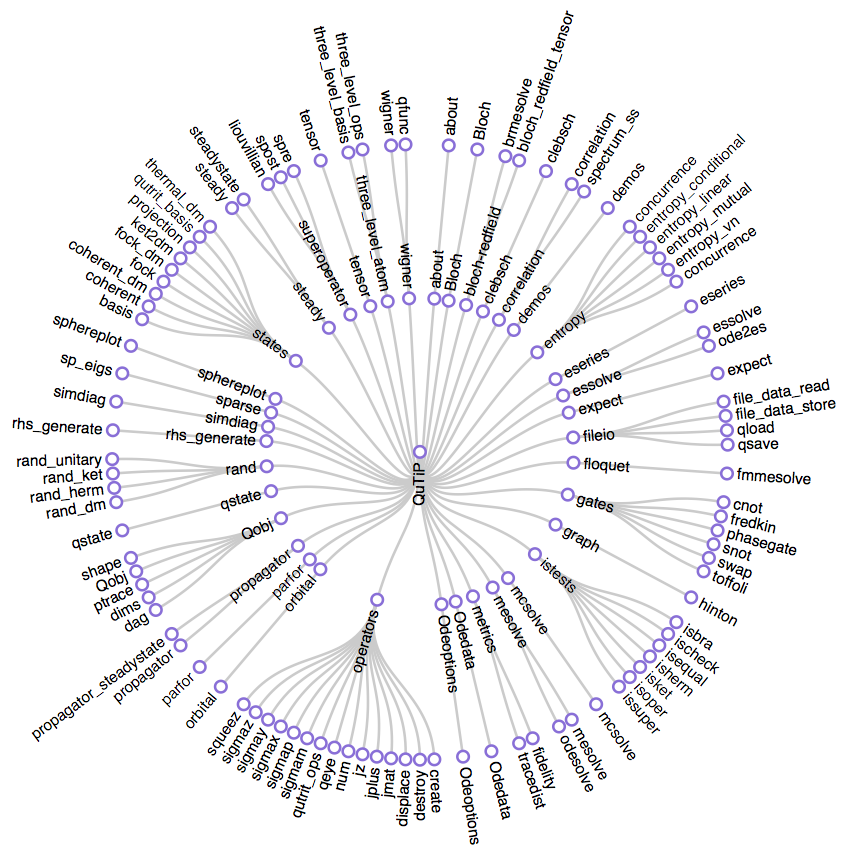
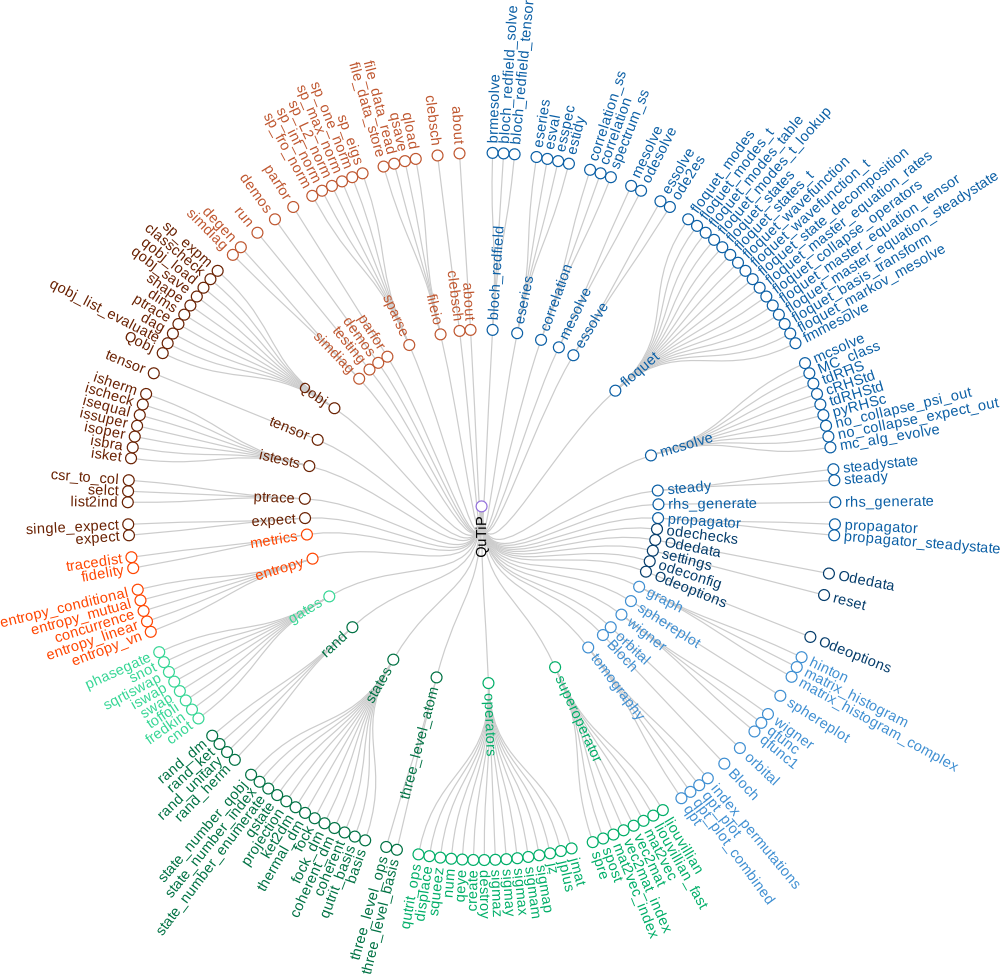
use tree diagram that is losely grouped by function

Changed region(s): [[0.0, 0.0, 1.0, 1.0], [0.0614, 0.8191, 0.0921, 0.8495], [0.0307, 0.8495, 0.0614, 0.8798]]

diff --git a/doc/QuTiP_tree_plot/d3_data/tree-radial.js b/doc/QuTiP_tree_plot/d3_data/tree-radial.js
@@ -1,4 +1,4 @@
-var r = 1200 / 2;
+var r = 1000 / 2;
 
 var tree = d3.layout.tree()
     .size([360, r - 210])

diff --git a/doc/QuTiP_tree_plot/d3_data/tree.css b/doc/QuTiP_tree_plot/d3_data/tree.css
@@ -5,7 +5,7 @@
 }
 
 .node {
-  font: 15px sans-serif;
+  font: 12px sans-serif;
 }
 
 .link {

diff --git a/doc/guide/guide-overview.rst b/doc/guide/guide-overview.rst
@@ -22,6 +22,6 @@ QuTiP is designed to be a general toolbox for solving quantum optics like proble
 
 .. figure:: qutip_org.png
    :align: center
-   :width: 4in
+   :width: 6in
    
    QuTiP tree-diagram of user accessible functions and classes.
